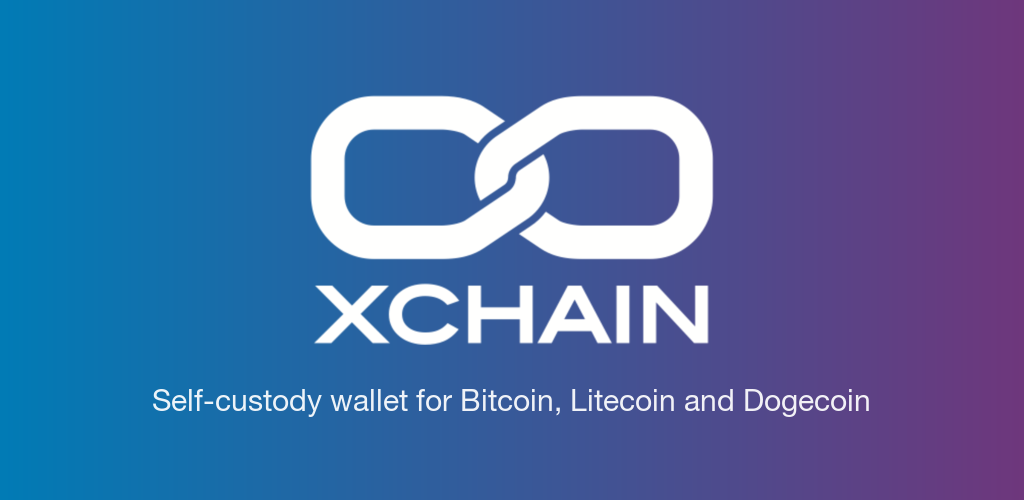
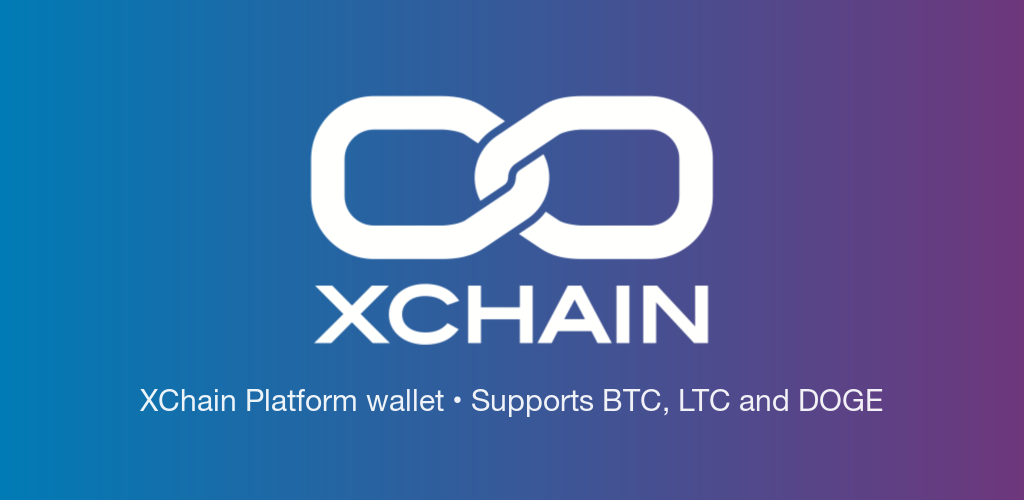
Lead wallet copy with the XChain Platform

Changed region(s): [[0.125, 0.78, 0.875, 0.84]]

diff --git a/test/smoke/audits/extension-listing-pack.smoke.js b/test/smoke/audits/extension-listing-pack.smoke.js
@@ -262,11 +262,11 @@ assert.equal(nameLine[1].trim(), manifest.name,
     + `"${manifest.name}". The store takes the listing title from the package, so these cannot differ.`);
 
 const platformLead = 'The wallet for the XChain Platform';
-const currentSupport = 'Currently supports BTC, DOGE &amp; LTC';
+const currentSupport = 'Current chains: Bitcoin, Litecoin &amp; Dogecoin';
 assert.ok(captureScript.includes(platformLead),
     `${CAPTURE_SCRIPT_PATH} promo tile must lead with "${platformLead}"`);
 assert.ok(captureScript.includes(currentSupport),
-    `${CAPTURE_SCRIPT_PATH} promo tile must describe BTC, DOGE, and LTC as current support`);
+    `${CAPTURE_SCRIPT_PATH} promo tile must name Bitcoin, Litecoin, and Dogecoin as current chain support`);
 assert.ok(!/Bitcoin, Dogecoin &(?:amp;)? Litecoin wallet/.test(captureScript),
     `${CAPTURE_SCRIPT_PATH} promo tile must not define the product as a three-coin wallet`);
 

diff --git a/test/unit/routes/OnboardingCarousel.test.jsx b/test/unit/routes/OnboardingCarousel.test.jsx
@@ -249,6 +249,20 @@ describe('Onboarding: explainer gating', () => {
         expect(screen.getByRole('button', { name: /Create new wallet/ })).toBeInTheDocument();
     });
 
+    it('introduces the XChain Platform before naming current chain support', () => {
+        stubMatchMedia(false);
+        acceptLicense();
+        mountOnboarding();
+
+        const tabs = screen.getAllByRole('tab');
+        fireEvent.click(tabs[tabs.length - 1]);
+
+        expect(screen.getByRole('heading', { name: 'Built for the XChain Platform' }))
+            .toBeInTheDocument();
+        expect(screen.getByText(/XChain Platform on Bitcoin, Litecoin, and Dogecoin/))
+            .toBeInTheDocument();
+    });
+
     it('skips the carousel for the unlocked-vault Add-Wallet lane (onBack)', () => {
         stubMatchMedia(false);
         acceptLicense();

diff --git a/packages/core/src/shared/routes/Onboarding.jsx b/packages/core/src/shared/routes/Onboarding.jsx
@@ -53,8 +53,8 @@ const EXPLAINER_FRAMES = [
     {
         id: 'multi-chain',
         icon: <Icon.TokenIcon />,
-        title: 'One wallet, several chains',
-        body: 'Bitcoin, Litecoin, and Dogecoin each have their own addresses here. The wallet keeps them separate on purpose so you always know which chain you are acting on.',
+        title: 'Built for the XChain Platform',
+        body: 'Use the XChain Platform on Bitcoin, Litecoin, and Dogecoin, the chains supported today. Each chain has its own addresses here, kept separate so you always know where you are acting.',
     },
 ];
 

diff --git a/test/unit/components/BalanceList.behavior.test.jsx b/test/unit/components/BalanceList.behavior.test.jsx
@@ -26,6 +26,14 @@ const row = (tick, overrides = {}) => ({
 });
 
 describe('BalanceList ordering and visibility', () => {
+    it('positions an empty wallet around the XChain Platform and its current chains', () => {
+        render(<BalanceList rows={[]} />);
+
+        expect(screen.getByText(
+            'XChain Platform coins and tokens appear here after this wallet receives funds on Bitcoin, Litecoin, or Dogecoin.',
+        )).toBeInTheDocument();
+    });
+
     it('moves pinned rows first without disturbing either group order', () => {
         render(
             <BalanceList

diff --git a/packages/core/src/shared/components/settings/AboutSection.jsx b/packages/core/src/shared/components/settings/AboutSection.jsx
@@ -143,6 +143,10 @@ export function AboutSection() {
 
     return (
         <div style={STACK}>
+            <p style={{ ...PARAGRAPH, color: 'var(--xc-text-muted)', lineHeight: 1.5 }}>
+                A self-custodial wallet for the XChain Platform. Current chain support:
+                {' '}Bitcoin, Litecoin, and Dogecoin.
+            </p>
             <Row label="Version">
                 <span style={ROW_VALUE}>{WALLET_VERSION}</span>
             </Row>

diff --git a/packages/core/src/shared/components/BalanceList.jsx b/packages/core/src/shared/components/BalanceList.jsx
@@ -63,7 +63,7 @@ export function BalanceList({
     multisig,
     multisigChainId,
     emptyTitle = 'No balances yet',
-    emptyBody = 'Balances appear here after this wallet receives funds.',
+    emptyBody = 'XChain Platform coins and tokens appear here after this wallet receives funds on Bitcoin, Litecoin, or Dogecoin.',
     onReceive,
     emptyActionLabel,
     onEmptyAction,

diff --git a/packages/mobile/store-assets/play/README.md b/packages/mobile/store-assets/play/README.md
@@ -62,6 +62,6 @@ magick fg-bg.png \( white-raw.png -trim +repage -resize x250 \) \
   -gravity center -geometry +0-30 -composite \
   -font /System/Library/Fonts/HelveticaNeue.ttc -pointsize 30 \
   -fill 'rgba(255,255,255,0.92)' -gravity center \
-  -annotate +0+150 'Self-custody wallet for Bitcoin, Litecoin and Dogecoin' \
+  -annotate +0+150 'XChain Platform wallet • Supports BTC, LTC and DOGE' \
   -alpha off feature-graphic-1024x500.png
 ```
